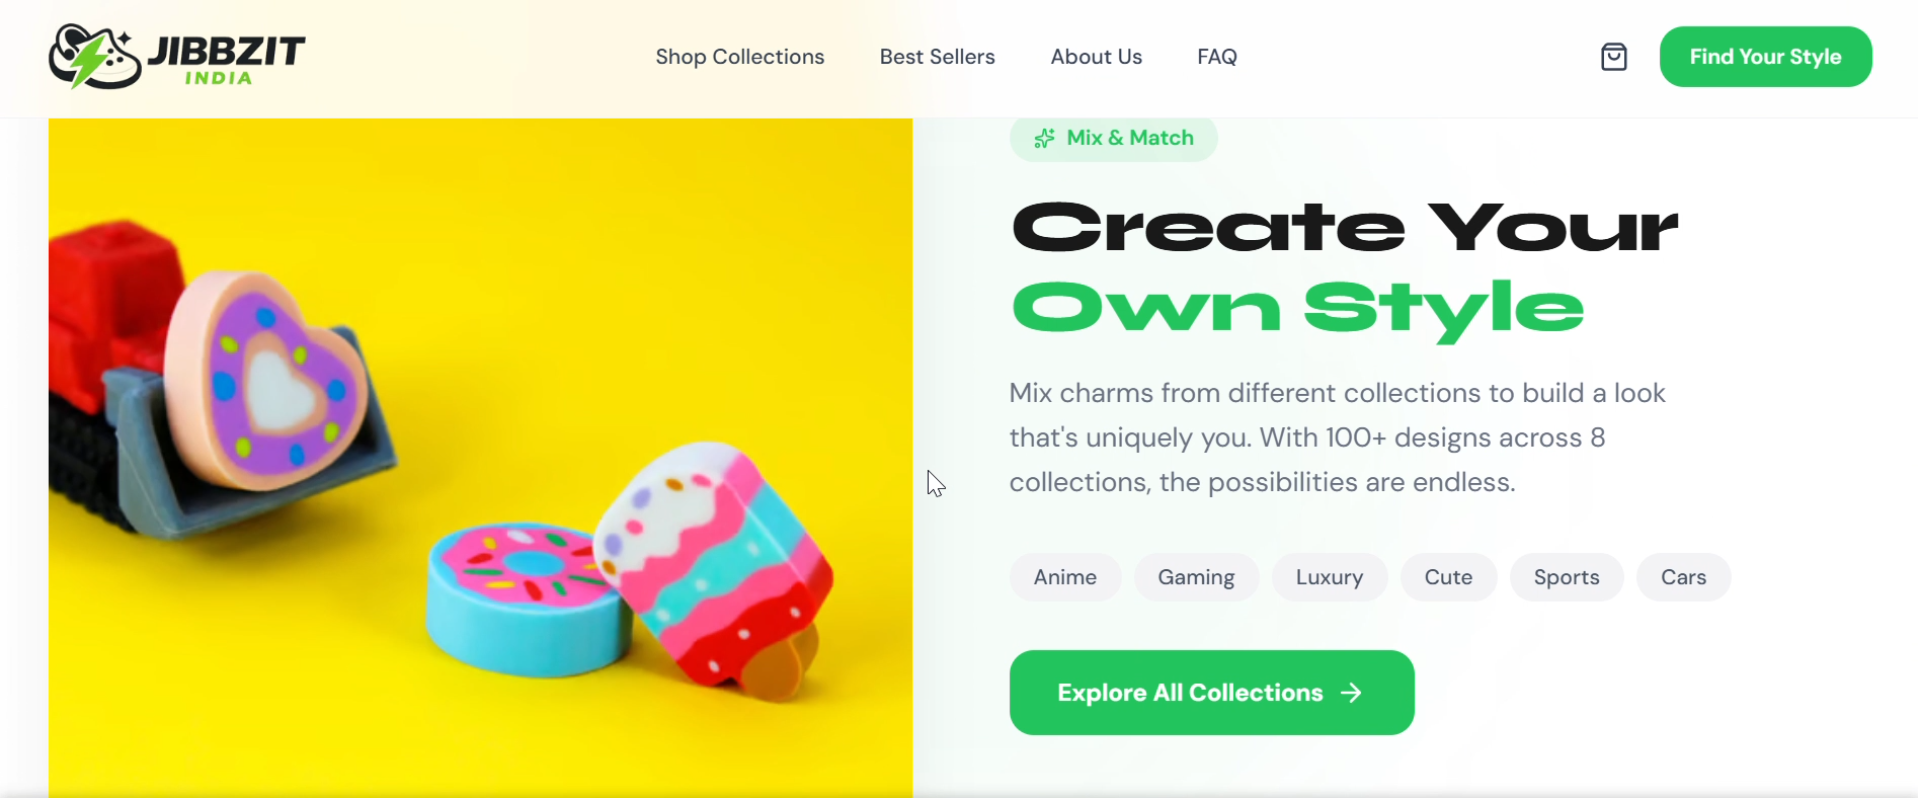
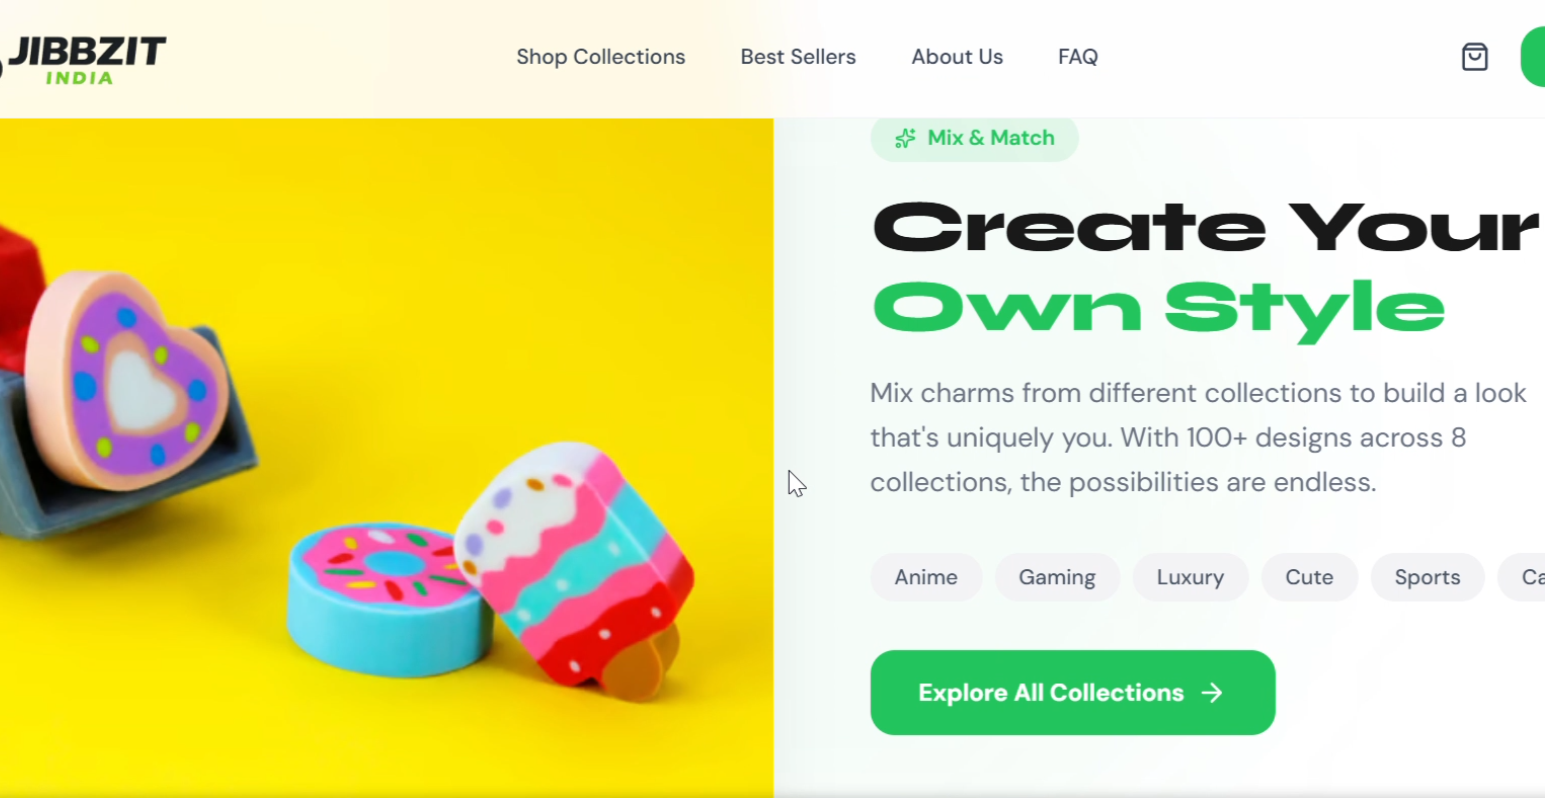
Fix project cards and responsive layout

diff --git a/style.css b/style.css
@@ -1,3 +1,8 @@
+html,
+body{
+    overflow-x:hidden;
+}
+
 html{
     scroll-behavior: smooth;
 }
@@ -1219,20 +1224,12 @@ padding:120px 10%;
 }
 
 .project-card{
-
-background:rgba(255,255,255,.05);
-
-border:1px solid rgba(255,255,255,.1);
-
-border-radius:25px;
-
-overflow:hidden;
-
-transition:.35s;
-
+    background:rgba(255,255,255,.05);
+    border:1px solid rgba(255,255,255,.1);
+    border-radius:25px;
+    overflow:hidden;
+    transition:.35s;
 }
-
-
 
 .project-card:hover{
 
@@ -1242,27 +1239,12 @@ border-color:var(--blue);
 
 }
 
-
-
 .project-card img{
-
-width:100%;
-
-height:280px;
-
-object-fit:cover;
-
+    width:100%;
+    height:220px;
+    object-fit:cover;
+    display:block;
 }
-
-
-
-.project-content{
-
-padding:35px;
-
-}
-
-
 
 .project-content span{
 
@@ -1272,8 +1254,6 @@ font-size:14px;
 
 }
 
-
-
 .project-content h3{
 
 font-size:30px;
@@ -1282,8 +1262,6 @@ margin:15px 0;
 
 }
 
-
-
 .project-content p{
 
 color:var(--gray);
@@ -1291,8 +1269,6 @@ color:var(--gray);
 line-height:1.7;
 
 }
-
-
 
 .project-tools{
 
@@ -1333,62 +1309,22 @@ font-weight:600;
     color:var(--blue);
 }
 
-
-.project-grid{
-
-    display:grid;
-
-    grid-template-columns:(1fr);
-
-    gap:40px;
-
-}
-
-
 .project-card{
-
-    background:rgba(255,255,255,0.05);
-
-    border:1px solid rgba(255,255,255,0.1);
-
+    background:rgba(255,255,255,.05);
+    border:1px solid rgba(255,255,255,.1);
     border-radius:25px;
-
     overflow:hidden;
-
-    transition:.4s;
-
+    transition:.35s;
 }
-
 
 .project-card:hover{
-
-    transform:translateY(-12px);
-
-    border-color:var(--blue);
-
+    transform:translateY(-8px);
 }
-
-
-
-.project-card img{
-
-    width:100%;
-
-    height:300px;
-
-    object-fit:cover;
-
-}
-
-
 
 .project-content{
-
-    padding:35px;
-
+    padding:25px;
+    flex:1;
 }
-
-
 
 .project-content span{
 
@@ -1749,70 +1685,6 @@ border-radius:15px;
 
 }
 
-.project-card:last-child{
-    grid-column: 1 / -1;
-    width: 50%;
-    margin: auto;
-}
-
-.project-card{
-    height:100%;
-    display:flex;
-    align-items:center;
-}
-
-.project-card img{
-    width:40%;
-    height:250px;
-    object-fit:cover;
-    border-radius:20px;
-}
-
-@media(max-width:800px){
-
-.project-card{
-    flex-direction:column;
-}
-
-.project-card img{
-    width:100%;
-}
-
-}
-
-.project-content{
-    flex:1;
-}
-
-.project-card:nth-child(3){
-    width:100%;
-    margin:0;
-}
-
-.project-card:nth-child(3) img{
-    width:100%;
-    height:280px;
-    object-fit:cover;
-}
-
-.project-card:nth-child(3){
-    width:100%;
-    display:flex;
-    align-items:center;
-    gap:30px;
-}
-
-.project-card:nth-child(3) img{
-    width:40%;
-    height:250px;
-    object-fit:cover;
-    border-radius:20px;
-}
-
-.project-card:nth-child(3) .project-content{
-    flex:1;
-}
-
 .timeline-content{
     padding:25px;
     border-radius:20px;
@@ -2046,19 +1918,23 @@ section{
 
 }
 
-.hero-right{
-    width:40%;
-    display:flex;
-    justify-content:center;
-    align-items:flex-start;
-    margin-top:-100px;
-}
-
 @media (max-width:768px){
 
     .hero-right{
         width:100%;
         margin-top:20px;
     }
+    .service-grid{
+    grid-template-columns:1fr !important;
+}
+.showcase{
+    flex-direction:column;
+    gap:30px;
+}
+
+.showcase-image,
+.showcase-content{
+    width:100%;
+}
 
 }

diff --git a/index.html b/index.html
@@ -355,8 +355,8 @@ View Case Study →
         </div>
 
         <div class="progress">
-            <div class="progress-bar editing"></div>
-        </div>
+    <div class="progress-bar" style="width:95%;"></div>
+</div>
 
     </div>
 
@@ -368,21 +368,21 @@ View Case Study →
         </div>
 
         <div class="progress">
-            <div class="progress-bar design"></div>
-        </div>
+    <div class="progress-bar" style="width:90%;"></div>
+</div>
 
     </div>
 
     <div class="skill">
 
         <div class="skill-info">
-            <span>Website Design</span>
+            <span>Web Development</span>
             <span>85%</span>
         </div>
 
         <div class="progress">
-            <div class="progress-bar website"></div>
-        </div>
+    <div class="progress-bar" style="width:85%;"></div>
+</div>
 
     </div>
 